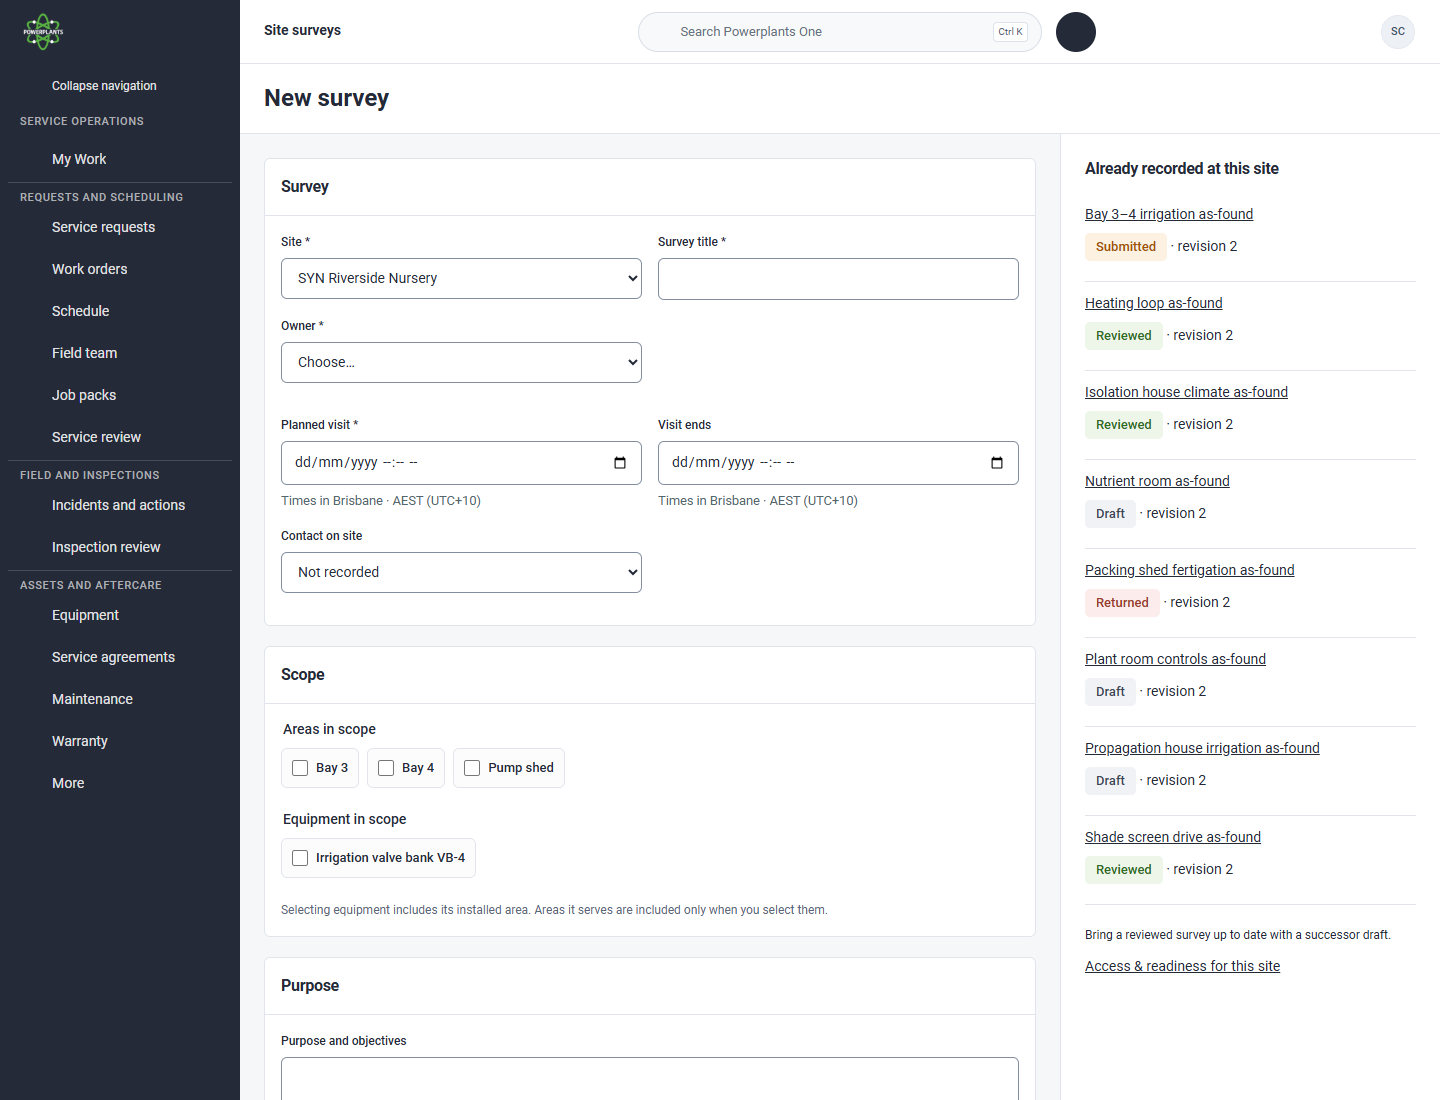
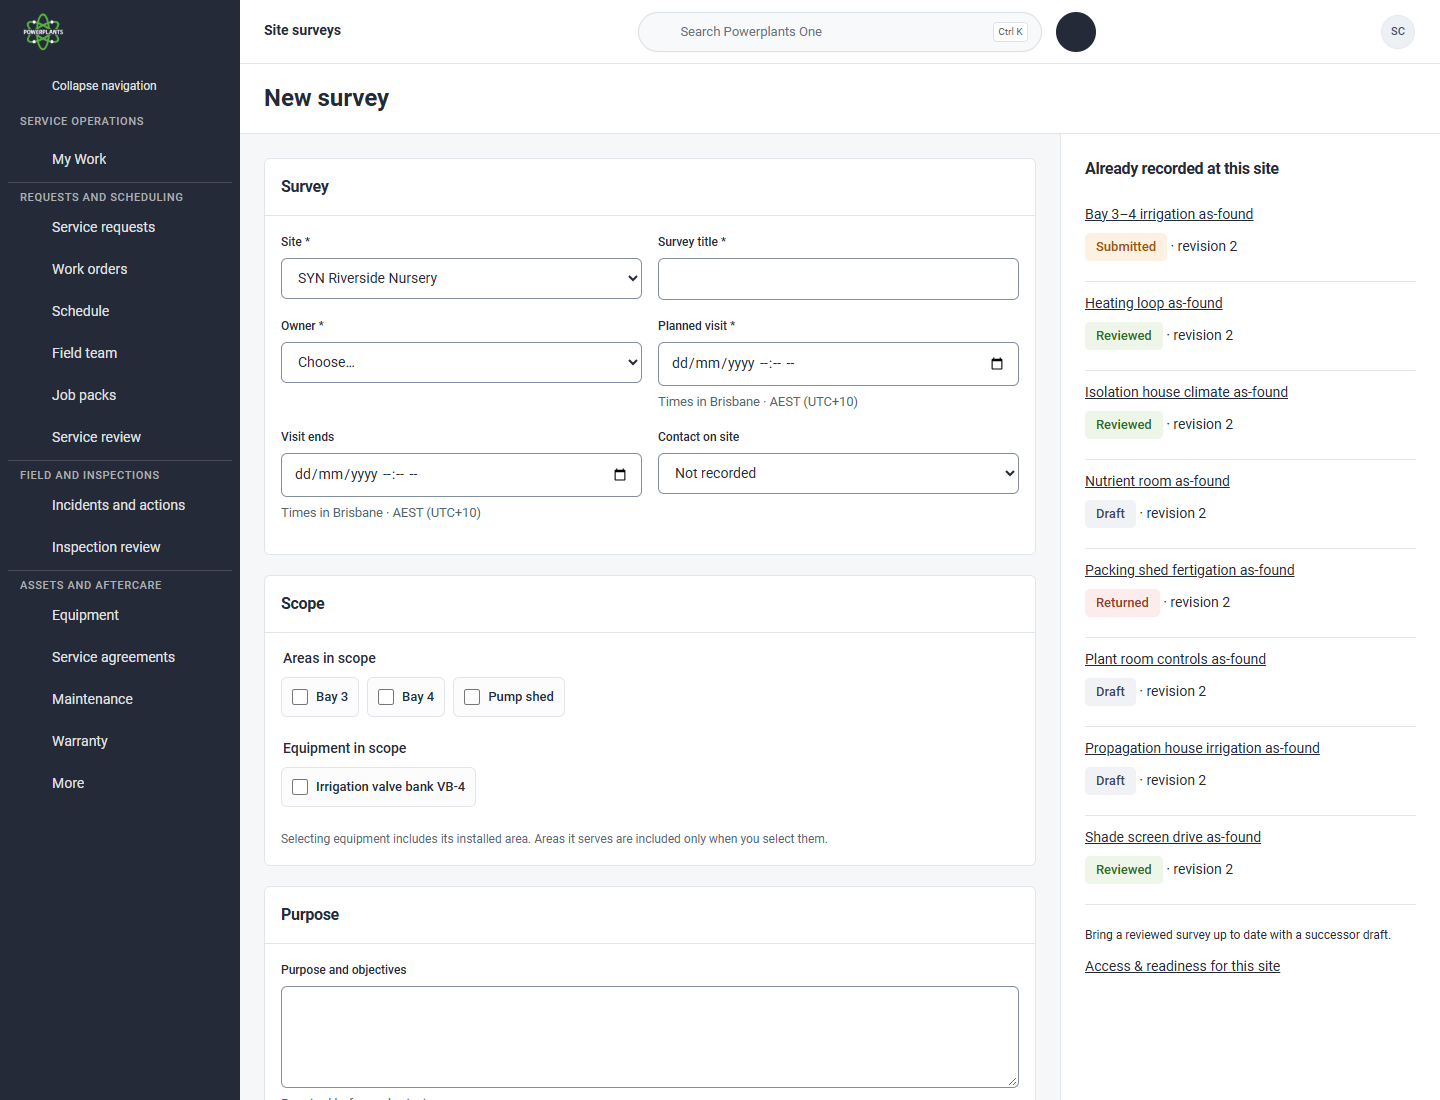
docs: complete CS-08 execution evidence and draft handover

diff --git a/docs/testing/evidence/site-surveys-native/README.md b/docs/testing/evidence/site-surveys-native/README.md
@@ -1,12 +1,12 @@
 # CS-08 Site surveys execution evidence
 
-Date: 21 October 2026. Branch codex/site-surveys-cs08; draft PR #628. Integrated main: 78795dd6. Owner visual review and independent pre-merge migration review are pending. No deployment or business acceptance is claimed.
+Date: 21 October 2026. Branch codex/site-surveys-cs08; draft PR #650. Integrated main: 78795dd6. Owner visual review and independent pre-merge migration review are pending. No deployment or business acceptance is claimed.
 
 ## Source and comparison
 
 PPO - Design, named version **Site surveys — accepted**, page 1464:2918, notes 1464:4164 and index 630:2. The [page contract](../../../design/development/pages/scope-cs-08.md) maps every live source and retained reference. Issued icon-free sources remain unchanged. Original live frames and the notes card were inspected outside Git.
 
-The captures below are the running local application with bounded synthetic presentation fixtures. Font Awesome icons were hidden with visibility rules before capture, retaining their geometry. No private design link, raw export or Pro artwork is included. They document an author comparison, not owner approval or a pixel-identical assertion. [Measurements](captures/measurements.json) record 21 captures, all without horizontal page overflow. Register and tab-strip overflow is contained within its own control.
+The captures below are the compiled local application with the locked Next.js 16.4.2 / React 19.3.1 dependencies with bounded synthetic presentation fixtures. Font Awesome icons were hidden with visibility rules before capture, retaining their geometry. No private design link, raw export or Pro artwork is included. They document an author comparison, not owner approval or a pixel-identical assertion. [Measurements](captures/measurements.json) record 21 captures, all without horizontal page overflow. Register and tab-strip overflow is contained within its own control.
 
 | View/state | Live node | Application capture |
 | --- | --- | --- |
@@ -34,25 +34,34 @@ The captures below are the running local application with bounded synthetic pres
 | Full unit suite | 973 tests: 970 passed, 3 failed; all three reproduced on clean main 78795dd6 |
 | Typecheck | Passed |
 | Lint | Passed |
-| Browser state/permission/handovers | 12 passed across desktop and phone |
-| Browser real save → submit → independent review | 2 passed, desktop and phone |
+| Browser state/permission/handovers | 12 passed across desktop and phone against the compiled app |
+| Browser real save → submit → independent review | 2 passed, desktop and phone against the compiled app |
+| Shared shell label and geometry | Focused check passed after updating the accepted Site surveys label |
 | Customer/location and populated survey upgrade | 8 passed against ppo_synthetic_test |
-| Historical populated 0025 estimate upgrade | Verification running |
-| Studio, naming, foundation and migration numbering | Final documentation check running |
-| Full application build | Verification running; compilation succeeded on the initial local dependency cache |
+| Historical populated 0025 estimate upgrade | Passed; original identities, financial source and ledgers preserved across 0026 through 0114 |
+| Studio, naming, foundation and migration numbering | Passed; 366 entries, 48 component entries, 78 parent requirements, no errors |
+| Full application build | Passed with locked Next.js 16.4.2 and npm 11.19.0; the earlier local-cache build also passed |
+| Locked dependency install | Passed with required npm 11.19.0; package/lock files unchanged |
+| Locked-client new allocation and survey authority | 2 passed against ppo_synthetic_test |
 
-The browser suite uses installed reviewed Chrome 155.0.8059.85 via an explicit executable path. The default local channel path did not exist; no runtime/browser policy was changed. Tests prove 390 and 320 px measurement layout, retained unsaved values across tabs, review/return in one form, changed-source visibility, owner/recorder exclusion, exact receiving destination/owner/snapshot payload, conflict retention, loading, empty, error, partial and denied reads. Separate database proofs verify the server authority checks and persisted handover. Earlier selector/envelope mistakes in the test harness were corrected and rerun.
+Final commands: npm run studio:check, npm run lint, npm run typecheck, npm run test:unit and npm run build (or their identical package-script entry points); python scripts/check_naming.py, scripts/check_foundation.py, scripts/check_migrations.py, scripts/build_status.py and scripts/build-ui-sequence.py. Windows used the installed Python 3.14 executable. No new routes required studio:sync. The generated build sequence remains under ignored tmp/ by repository policy.
+
+Initial installation refused local npm 11.19.1 because the repository pins 11.19.0. Using the required version completed the locked install. One unit run concurrent with the build also hit the CPQ owned-workload execution budget; the unchanged check passed in isolation on both this branch and clean main. This transient attempt is not represented as a pass of the full run.
+
+The browser suite uses installed reviewed Chrome 155.0.8059.85 via an explicit executable path. The default local channel path did not exist; no runtime/browser policy was changed. Tests prove 390 and 320 px measurement layout, retained unsaved values across tabs, review/return in one form, changed-source visibility, owner/recorder exclusion, exact receiving destination/owner/snapshot payload, conflict retention, loading, empty, error, partial and denied reads. Separate database proofs verify the server authority checks and persisted handover. Earlier selector/envelope mistakes in the test harness were corrected and rerun. The last rebuild also exposed a test-launch race before the preview listener was ready; the browser suite was rerun after readiness.
 
 The full unit non-regressions are P06 private adapter write-once, P06 immutable source lookup and P12 private recovery-path checks. Each failed with the same Windows filesystem behaviour on an unmodified, clean main worktree. They are not counted as passes. Linux CI and a different-model pre-merge review remain separate from this local evidence.
 
 The private PostgreSQL 16 cluster contained only ppo_synthetic_test. Local fixture seeding on unchanged 0109 exceeded its 120-second limit, so a temporary test-only preload extended statement/connection timing. Reset required a higher max_locks_per_transaction in that private cluster. Runtime timeout code is unchanged. A Windows ESM preload path error was corrected to a file URL before the final 8/8 run. No full repository database or HTTP suite has been claimed.
+
+The first PR CI run exposed an old-schema Supply conversion incompatibility and a stale shell label expectation. Plan creation now freezes the namespace supported by the installed migration, so pre-0114 plans keep their original references while new plans use SYN-SC-. The receipt suite asserts both formats; replay does not rename an existing plan. The shell check passed locally. The corresponding disposition suite passed on [unmodified main 78795dd6](https://github.com/deanrfiedler-gif/powerplants-one/actions/runs/39519918810). A local baseline receipt-upgrade attempt stopped earlier with ExactDraftUnavailable in the existing Windows document-output path; it is not a passing receipt proof. Replacement PR CI remains separate from the successful local CS-08 and migration checks above.
 
 ## Visual differences and open questions
 
 - New references use Dean's later approved SYN-SRV-000nnn format. Existing references and issued examples stay unchanged.
 - The shared compact phone record header keeps reference, Back and More; Record observation appears in the body. This adds vertical content compared with the dedicated close-only form header in 1478:3552. Save and Cancel remain reachable in the sticky form footer.
 - Native labelled start/end inputs replace the drawn combined visit interval control. Start is required for new surveys; end is optional and must follow start. A measurement unit is a labelled text field because no authoritative unit catalogue is defined. Observation recording preserves date precision, without inventing clock time.
-- The current Service rail follows actual permissions and the remembered department. Its available links differ from the illustrative rail. Register More/settings and bulk operations have no specified action; the trailing control opens the record. Additional required columns remain horizontally reachable. Title sorting applies to the loaded page and pagination is explicit.
+- The current Service rail follows actual permissions and the remembered department. The tablet capture uses its existing Collapse primary navigation control, matching the collapsed state in 1464:3695; an expanded user preference is also supported. Its available links differ from the illustrative rail. Register More/settings and bulk operations have no specified action; the trailing control opens the record. Additional required columns remain horizontally reachable. Title sorting applies to the loaded page and pagination is explicit.
 - Scope links, known gaps, original file metadata and caption correction records use current canonical data. Synthetic names, dates, row counts and retained history differ from the drawn examples; these captures are not replacements for the accepted reference. Visit context renders recorded site-wide observations without inventing arrival/access categories or attendance.
 - Existing Activity links handle follow-up; no inline Activity creation, Conversations or document-storage connection is introduced. Current synthetic photo limits are eight originals, 1 MiB per new file and bounded static PNG/JPEG/WebP dimensions.
 

diff --git a/docs/STATUS.md b/docs/STATUS.md
@@ -5,9 +5,9 @@
 
 ## Site surveys CS-08 build and authorised short references — 21 October 2026
 
-Dean approved the [short reference approach](decisions/readable-reference-namespaces.md) and the required migration after the 20 October preflight. Draft PR #628 implements CS-08 on its isolated branch: new SYN-SRV-000nnn references, explicit planned visit/contact facts, the accepted compact register and six-section record, original photo retention, independent review/return and exact reviewed handover. Existing reference values and retained snapshots are preserved; no new capability, seed, dependency or document-store connection is introduced.
+Dean approved the [short reference approach](decisions/readable-reference-namespaces.md) and the required migration after the 20 October preflight. Draft PR #650 implements CS-08 on its isolated branch: new SYN-SRV-000nnn references, explicit planned visit/contact facts, the accepted compact register and six-section record, original photo retention, independent review/return and exact reviewed handover. Existing reference values and retained snapshots are preserved; no new capability, seed, dependency or document-store connection is introduced.
 
-The [build decision](decisions/site-surveys-native-build.md), three page contracts, register, Australian English guides and shared component host bindings are updated in the same change. Live source: PPO - Design, Site surveys — accepted, page 1464:2918 and notes 1464:4164. Owner visual review remains pending. [Execution evidence](testing/evidence/site-surveys-native/README.md) distinguishes completed checks, ongoing verification, local Windows limits and remaining visual mismatches. No deployment or business acceptance is claimed.
+The [build decision](decisions/site-surveys-native-build.md), three page contracts, register, Australian English guides and shared component host bindings are updated in the same change. Live source: PPO - Design, Site surveys — accepted, page 1464:2918 and notes 1464:4164. Owner visual review remains pending. [Execution evidence](testing/evidence/site-surveys-native/README.md) records the passing locked build, typecheck, lint, studio, naming, foundation, database/upgrade and 14 compiled-browser checks; full-unit Windows non-regressions and visual adaptations remain explicit. No deployment or business acceptance is claimed.
 
 ## Changes and follow-up PL-04 implementation claimed — 21 October 2026
 

diff --git a/docs/status/2026-10-21-site-surveys-cs08-build.md b/docs/status/2026-10-21-site-surveys-cs08-build.md
@@ -3,6 +3,6 @@ title: Site surveys CS-08 build and authorised short references
 date: 2026-10-21
 ---
 
-Dean approved the [short reference approach](../decisions/readable-reference-namespaces.md) and the required migration after the 20 October preflight. Draft PR #628 implements CS-08 on its isolated branch: new SYN-SRV-000nnn references, explicit planned visit/contact facts, the accepted compact register and six-section record, original photo retention, independent review/return and exact reviewed handover. Existing reference values and retained snapshots are preserved; no new capability, seed, dependency or document-store connection is introduced.
+Dean approved the [short reference approach](../decisions/readable-reference-namespaces.md) and the required migration after the 20 October preflight. Draft PR #650 implements CS-08 on its isolated branch: new SYN-SRV-000nnn references, explicit planned visit/contact facts, the accepted compact register and six-section record, original photo retention, independent review/return and exact reviewed handover. Existing reference values and retained snapshots are preserved; no new capability, seed, dependency or document-store connection is introduced.
 
-The [build decision](../decisions/site-surveys-native-build.md), three page contracts, register, Australian English guides and shared component host bindings are updated in the same change. Live source: PPO - Design, Site surveys — accepted, page 1464:2918 and notes 1464:4164. Owner visual review remains pending. [Execution evidence](../testing/evidence/site-surveys-native/README.md) distinguishes completed checks, ongoing verification, local Windows limits and remaining visual mismatches. No deployment or business acceptance is claimed.
+The [build decision](../decisions/site-surveys-native-build.md), three page contracts, register, Australian English guides and shared component host bindings are updated in the same change. Live source: PPO - Design, Site surveys — accepted, page 1464:2918 and notes 1464:4164. Owner visual review remains pending. [Execution evidence](../testing/evidence/site-surveys-native/README.md) records the passing locked build, typecheck, lint, studio, naming, foundation, database/upgrade and 14 compiled-browser checks; full-unit Windows non-regressions and visual adaptations remain explicit. No deployment or business acceptance is claimed.
